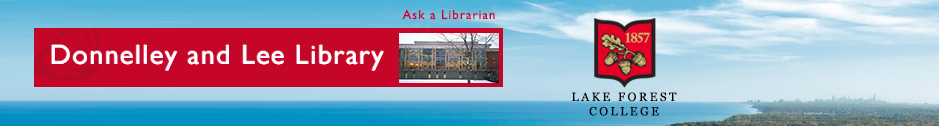
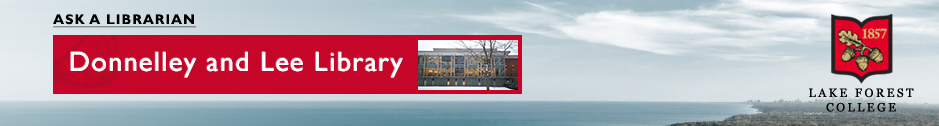
customizations for IWU LFC SVC and SWI. Also tweek to the CARLI holdings template

diff --git a/themes/iwu/css/institution.css b/themes/iwu/css/institution.css
@@ -1,0 +1,24 @@
+/* css XXX */
+a {  /* Link color */
+  color: #006633;
+}
+a:visited { /* Link visited */
+  color: #006633;
+}
+a:hover,a:focus,a:active {  /* Link hover & focus */
+  color: #006633;
+}
+h2, h4 {  /* Side Bar header #2 */
+  color:#006633;
+}
+h3 {  /* Title #4 */
+  color:#006633;
+}
+.facet-group .title {  /* Facet Label #3 */
+  color:#000000
+}
+.sidebar .facet.active, .sidebar .facet.active:hover, .sidebar .active-filters .facet { /* background for right sidebar in search */
+  color: #ffffff;
+  background: #006633;
+  border-color: #006633;
+}

diff --git a/themes/svc/css/institution.css b/themes/svc/css/institution.css
@@ -1,0 +1,24 @@
+/* css SVC */
+a {  /* Link color */
+  color: #D11600;
+}
+a:visited { /* Link visited */
+  color: #666666;
+}
+a:hover,a:focus,a:active {  /* Link hover & focus */
+  color: #cc0000;
+}
+h2, h4 {  /* Side Bar header #2 */
+  color:#d11600;
+}
+h3 {  /* Title #4 */
+  color:#666666;
+}
+.facet-group .title {  /* Facet Label #3 */
+  color:#666666
+}
+.sidebar .facet.active, .sidebar .facet.active:hover, .sidebar .active-filters .facet { /* background for right sidebar in search */
+  color: #ffffff;
+  background: #D11600;
+  border-color: #D11600;
+}

diff --git a/themes/lfc/css/institution.css b/themes/lfc/css/institution.css
@@ -3,7 +3,10 @@
 a { /* Link color */
   color: #c31330;
 }
-a:hover,a:focus { /* Link hover & visited */
+a:visited { /* Link visited */
+  color: #663333;
+}
+a:hover,a:focus,a:active { /* Link hover & focus */
   color: #96051e;
 }
 h2, h4 { /* Side Bar header #2 */
@@ -12,6 +15,6 @@ h2, h4 { /* Side Bar header #2 */
 h3 { /* Title #4 */
   color: #ad001f;
 }
-.list-group-item.title { /* Facet Label #3 */
+.facet-group .title { /* Facet Label #3 */
   color: #96051e;
 }

diff --git a/themes/carli/css/carli.css b/themes/carli/css/carli.css
@@ -40,6 +40,12 @@ header .navbar .navbar-right {
 header .searchbox {
   background: none;
 }
+h4.location {
+  font-weight: 300;
+}
+h4.location strong {
+  font-weight: 500;
+}
 a {
   color: #19458d;
 }

diff --git a/themes/swi/config.php b/themes/swi/config.php
@@ -1,21 +1,22 @@
 <?
 
-$headerImage = 'vufind-swi.gif';
+$headerImage = 'vufind-swi.png';
 
 $headerUrl = '';
 
-$headerMap = '<area shape="rect" coords="276,35,547,118" href="http://www.swic.edu/library/" alt="SWIC Library Home"/>
-<area shape="rect" coords="791,27,954,52" href="http://www.swic.edu/library/" alt="SWIC Library Home"/>
-<area shape="rect" coords="668,52,954,77" href="http://www.swic.edu/periodical-databases/" alt="Find Articles in the Library Databases"/>
-<area shape="rect" coords="734,77,954,98" href="http://www.swic.edu/hours-locations/" alt="Library Hours and Locations"/>
-<area shape="rect" coords="598,98,954,119" href="http://www.swic.edu/librarian-contact/" alt="Need Help? Contact a Friendly SWIC Librarian"/>
-<area shape="rect" coords="10,10,261,135" href="http://www.swic.edu/" alt="Southwestern Illinois College"/>
+$headerMap = '
+<area target="_blank" alt="Library Home Page" title="Library Home Page" href="https://www.swic.edu/students/services/library/" coords="728,73,925,46" shape="rect">
+<area target="_blank" alt="Hours and Locations" title="Hours and Locations" href="https://www.swic.edu/students/services/library/hours-and-locations/" coords="710,108,925,82" shape="rect">
+<area target="_blank" alt="Contact Us" title="Contact Us" href="https://www.swic.edu/students/services/library/contact/" coords="690,142,925,113" shape="rect">
 ';
 
 $feedBackLink = 'http://www.swic.edu/facultyandstaff';
 
-$introtext = '
-<span style="font-weight:bold;">Login to request and renew library items. If you are new, you will want to </span> <span style="color:084B8A;font-weight:bold;"> <a href="https://vufind.carli.illinois.edu/vf-swi/MyResearch/Account?followup=%2Fvf-swi%2FMyResearch%2FHome">create an account</a>.</span>
+$introText = '
+';
+
+$loginText = '
+<p>Your library barcode is found on the front of your SWIC Student/Employee ID card.</p>
 ';
 
 ?>

diff --git a/themes/lfc/config.php b/themes/lfc/config.php
@@ -5,13 +5,9 @@ $headerImage = 'vufind-lfc.png';
 $headerUrl = '';
 
 $headerMap = '
-<area shape="rect" coords="400,0,500,25" 
-href="http://www.lakeforest.edu/library/ask.php" alt="Ask a Librarian"> 
-<area shape="rect" coords="35,35,500,91" 
-href="http://www.lakeforest.edu/library/" alt="Donnelley and Lee Library, 
-Lake Forest College"> 
-<area shape="rect" coords="570,25,675,120" href="http://www.lakeforest.edu/" 
-alt="Lake Forest College">
+<area shape="rect" coords="30,0,200,20" href="http://www.lakeforest.edu/library/ask.php" target="_blank" alt="Ask a Librarian">
+<area shape="rect" coords="30,40,500,90" href="http://www.lakeforest.edu/library/" alt="Donnelley and Lee Library, Lake Forest College">
+<area shape="rect" coords="550,5,939,126" href="http://www.lakeforest.edu/" alt="Lake Forest College">
 ';
 
 $feedBackLink = 'http://www.lakeforest.edu/library/how/ask.php';

diff --git a/themes/svc/config.php b/themes/svc/config.php
@@ -1,13 +1,16 @@
 <?
 
-$headerImage = 'vufind-svc.gif';
+$headerImage = 'vufind-svc.png';
 
-$headerUrl = 'http://www.svcc.edu/InfoMenu/departments/lrc/index.html';
+$headerUrl = 'https://www.svcc.edu/departments/learning-commons/library/books.html';
 
 $headerMap = '';
 
 $feedBackLink = 'mailto:lrc@svcc.edu';
 
-$introText = '';
+$introText = '
+<p> <img src="https://www.svcc.edu/departments/learning-commons/-images/lc-header.png">
+</p> 
+';
 
 ?>

diff --git a/themes/iwu/config.php b/themes/iwu/config.php
@@ -8,4 +8,9 @@ $headerMap = '';
 
 $feedBackLink = 'http://www.iwu.edu/library/help/ask_librarian.shtml';
 
+$loginText = '
+<p>The Borrower ID (Barcode Number) can be found on the back of your University
+ID Card.</p>
+';
+
 ?>

diff --git a/themes/iwu/theme.config.php b/themes/iwu/theme.config.php
@@ -1,4 +1,7 @@
 <?php
 return array(
-    'extends' => 'carli'
+    'extends' => 'carli',
+    'css' => array(
+        'institution.css',
+     ),
 );

diff --git a/themes/svc/theme.config.php b/themes/svc/theme.config.php
@@ -1,4 +1,7 @@
 <?php
 return array(
-    'extends' => 'carli'
+    'extends' => 'carli',
+    'css' => array(
+        'institution.css',
+     ),
 );
